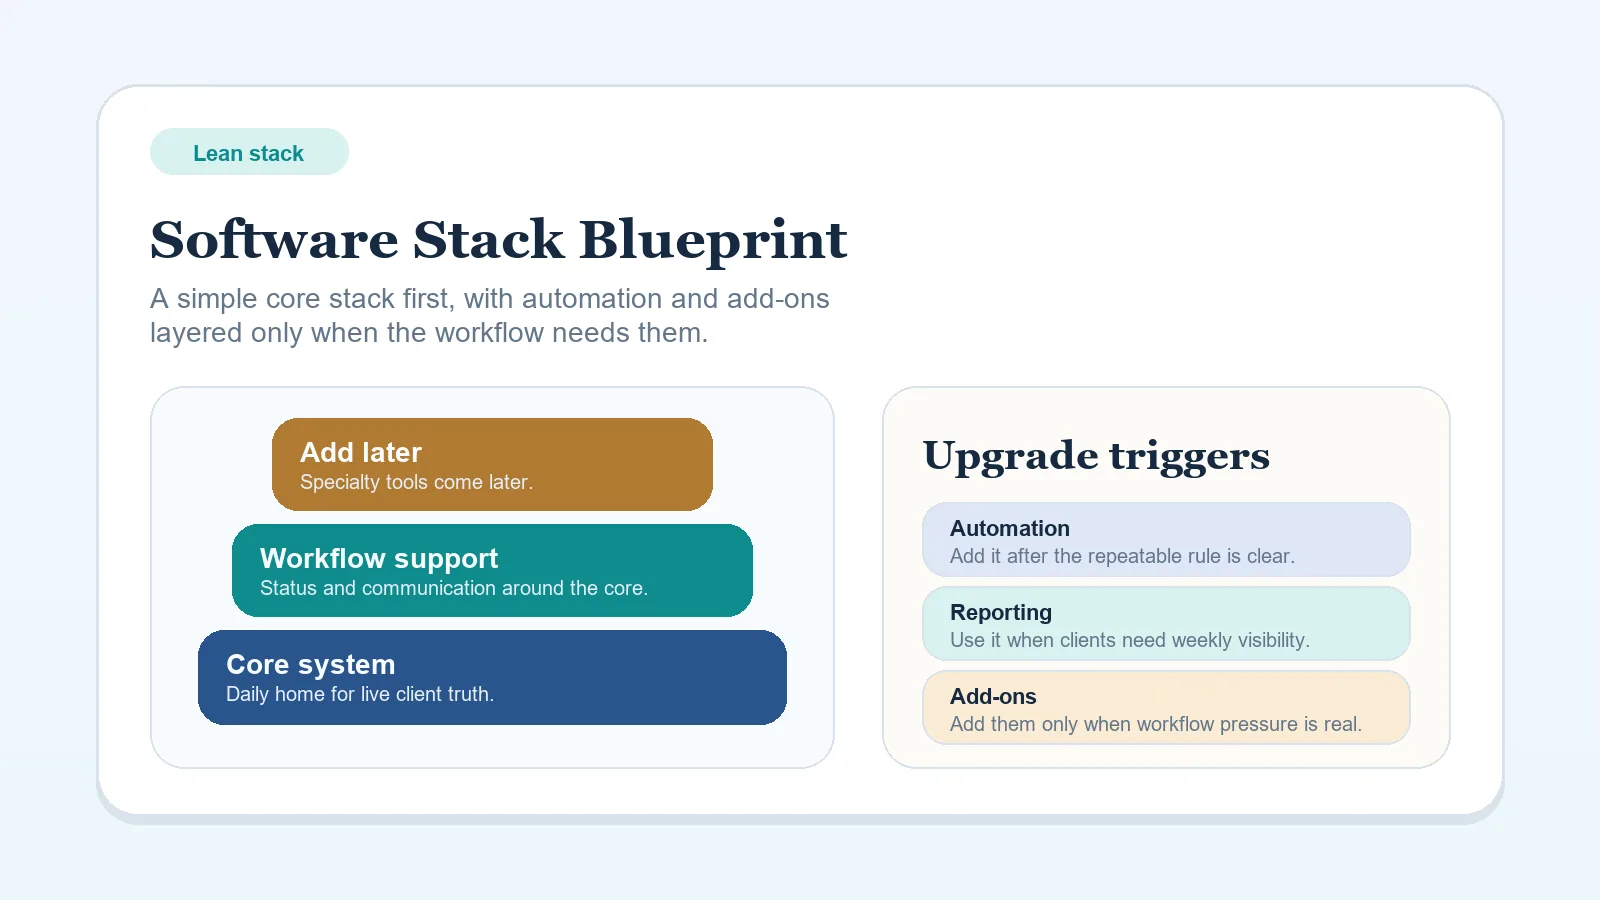
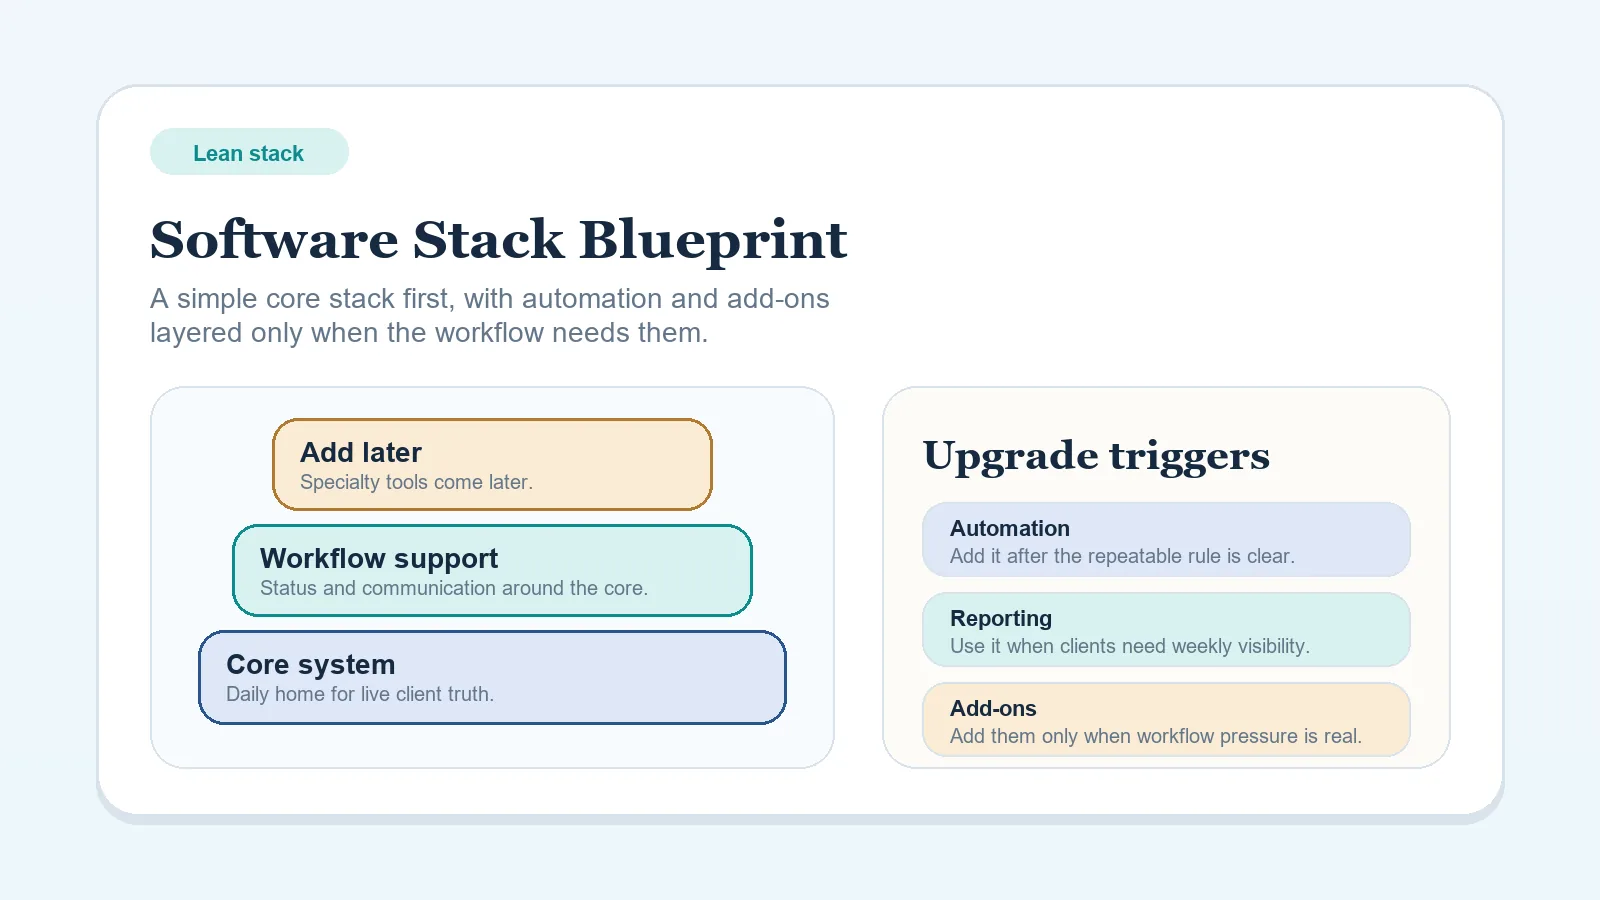
Refine four homepage feature images

Changed region(s): [[0.125, 0.4667, 0.5, 0.8089], [0.5625, 0.6533, 0.875, 0.84]]

diff --git a/tools/feature-images/feature_images/templates/workflow_map.py b/tools/feature-images/feature_images/templates/workflow_map.py
@@ -20,14 +20,14 @@ def render_workflow_map(spec, context):
         max_lines=2,
     )
 
-    panel = (150, 384, 1450, 620)
+    panel = (150, 384, 1450, 640)
     helpers["rounded_box"](draw, panel, fill="#f8fbfd", outline=palette["stroke"], width=3, radius=34)
     items = spec["items"]
-    card_width = 262
-    card_height = 176
-    gap = 34
-    start_x = 171
-    top_y = 430
+    card_width = 274
+    card_height = 210
+    gap = 38
+    start_x = 195
+    top_y = 418
     connector_y = top_y + (card_height // 2)
     last_card_x = start_x + ((len(items) - 1) * (card_width + gap))
     draw.line(
@@ -40,28 +40,17 @@ def render_workflow_map(spec, context):
         box = (x, top_y, x + card_width, top_y + card_height)
         fill = [palette["accent_soft"], palette["secondary_soft"], palette["warm_soft"], palette["good_soft"]][index % 4]
         helpers["rounded_box"](draw, box, fill=fill, outline=palette["stroke"], width=2, radius=28)
-        helpers["pill"](draw, (x + 24, top_y + 24, x + 138, top_y + 64), palette["frame"], item["kicker"], fonts["small"], palette["muted"])
-        draw.text((x + 24, top_y + 82), item["label"], font=fonts["card_title"], fill=palette["ink"])
-        helpers["draw_text_block"](
-            draw,
-            item["detail"],
-            fonts["card_body"],
-            palette["muted"],
-            (x + 24, top_y + 122, card_width - 48, 72),
-            6,
-            report,
-            f"workflow card {item['label']}",
-            max_lines=2,
-        )
+        helpers["pill"](draw, (x + 24, top_y + 24, x + 148, top_y + 68), palette["frame"], item["kicker"], fonts["small"], palette["muted"])
+        draw.text((x + 28, top_y + 88), item["label"], font=fonts["panel_title"], fill=palette["ink"])
         if index < len(items) - 1:
             draw.line((x + card_width, connector_y, x + card_width + gap, connector_y), fill=palette["accent"], width=8)
             draw.ellipse((x + card_width + gap - 11, connector_y - 11, x + card_width + gap + 11, connector_y + 11), fill=palette["accent"])
 
-    note_box = (150, 664, 760, 778)
-    signal_box = (790, 664, 1450, 778)
+    note_box = (150, 660, 760, 782)
+    signal_box = (790, 660, 1450, 782)
     helpers["rounded_box"](draw, note_box, fill="#f3f8fb", outline=palette["stroke"], width=2, radius=28)
     helpers["rounded_box"](draw, signal_box, fill="#f7fbf8", outline=palette["stroke"], width=2, radius=28)
-    draw.text((182, 684), spec["supporting_note"]["title"], font=fonts["card_title"], fill=palette["ink"])
-    helpers["draw_text_block"](draw, spec["supporting_note"]["body"], fonts["card_body"], palette["muted"], (182, 728, 530, 56), 6, report, "workflow supporting note", max_lines=2)
-    draw.text((822, 684), spec["signal_note"]["title"], font=fonts["card_title"], fill=palette["ink"])
-    helpers["draw_text_block"](draw, spec["signal_note"]["body"], fonts["card_body"], palette["muted"], (822, 728, 550, 56), 6, report, "workflow signal note", max_lines=2)
+    draw.text((182, 680), spec["supporting_note"]["title"], font=fonts["card_title"], fill=palette["ink"])
+    helpers["draw_text_block"](draw, spec["supporting_note"]["body"], fonts["card_body"], palette["muted"], (182, 718, 530, 54), 6, report, "workflow supporting note", max_lines=2)
+    draw.text((822, 680), spec["signal_note"]["title"], font=fonts["card_title"], fill=palette["ink"])
+    helpers["draw_text_block"](draw, spec["signal_note"]["body"], fonts["card_body"], palette["muted"], (822, 718, 550, 54), 6, report, "workflow signal note", max_lines=2)

diff --git a/tools/feature-images/feature_images/templates/stack_blueprint.py b/tools/feature-images/feature_images/templates/stack_blueprint.py
@@ -15,20 +15,26 @@ def render_stack_blueprint(spec, context):
     helpers["rounded_box"](draw, main_box, fill="#f7fbff", outline=palette["stroke"], width=2, radius=34)
     helpers["rounded_box"](draw, side_box, fill="#fdfcf8", outline=palette["stroke"], width=2, radius=34)
 
-    stack_boxes = [
-        (198, 630, 786, 724, palette["accent"]),
-        (232, 524, 752, 616, palette["secondary"]),
-        (272, 418, 712, 510, palette["warm"]),
+    stack_fills = [
+        (palette["accent"], palette["accent_soft"]),
+        (palette["secondary"], palette["secondary_soft"]),
+        (palette["warm"], palette["warm_soft"]),
     ]
-    for idx, (x1, y1, x2, y2, fill) in enumerate(stack_boxes):
-        helpers["rounded_box"](draw, (x1, y1, x2, y2), fill=fill, outline=fill, width=2, radius=26)
+    stack_boxes = [
+        (198, 630, 786, 724),
+        (232, 524, 752, 616),
+        (272, 418, 712, 510),
+    ]
+    for idx, (x1, y1, x2, y2) in enumerate(stack_boxes):
+        border_color, bg_color = stack_fills[idx]
+        helpers["rounded_box"](draw, (x1, y1, x2, y2), fill=bg_color, outline=border_color, width=3, radius=26)
         layer = spec["stack_layers"][idx]
-        draw.text((x1 + 28, y1 + 18), layer["title"], font=fonts["card_title"], fill="#f7fbfd")
-        helpers["draw_text_block"](draw, layer["detail"], fonts["small"], "#e6eef7", (x1 + 28, y1 + 52, (x2 - x1) - 56, 48), 4, report, f"stack layer {layer['title']}", max_lines=2)
+        draw.text((x1 + 28, y1 + 18), layer["title"], font=fonts["card_title"], fill=palette["ink"])
+        helpers["draw_text_block"](draw, layer["detail"], fonts["small"], palette["muted"], (x1 + 28, y1 + 52, (x2 - x1) - 56, 48), 4, report, f"stack layer {layer['title']}", max_lines=2)
 
     draw.text((922, 432), spec["side_panel"]["title"], font=fonts["panel_title"], fill=palette["ink"])
     for index, item in enumerate(spec["side_panel"]["items"]):
-        y = 502 + (index * 84)
+        y = 502 + (index * 90)
         fill = [palette["accent_soft"], palette["secondary_soft"], palette["warm_soft"]][index % 3]
         helpers["rounded_box"](draw, (922, y, 1410, y + 74), fill=fill, outline=palette["stroke"], width=2, radius=24)
         draw.text((950, y + 14), item["label"], font=fonts["pill"], fill=palette["ink"])

diff --git a/tools/feature-images/feature_images/templates/hub_overview.py b/tools/feature-images/feature_images/templates/hub_overview.py
@@ -11,10 +11,10 @@ def render_hub_overview(spec, context):
     helpers["draw_text_block"](draw, spec["subtitle"], fonts["subtitle"], palette["muted"], (150, 282, 760, 72), 8, report, "hub subtitle", max_lines=2)
 
     anchor_box = (150, 392, 630, 748)
-    helpers["rounded_box"](draw, anchor_box, fill=palette["secondary"], outline=palette["secondary"], width=2, radius=36)
-    helpers["pill"](draw, (190, 430, 374, 470), "#43679b", "Operating center", fonts["small"], "#eef6ff")
-    helpers["draw_text_block"](draw, spec["anchor"]["title"], fonts["panel_title"], "#eef6ff", (190, 500, 330, 110), 10, report, "hub anchor title", max_lines=2)
-    helpers["draw_text_block"](draw, spec["anchor"]["body"], fonts["card_body"], "#d8e6f7", (190, 626, 360, 82), 8, report, "hub anchor body", max_lines=3)
+    helpers["rounded_box"](draw, anchor_box, fill=palette["secondary_soft"], outline=palette["secondary"], width=2, radius=36)
+    helpers["pill"](draw, (190, 430, 374, 470), palette["secondary"], "Operating center", fonts["small"], "#eef6ff")
+    helpers["draw_text_block"](draw, spec["anchor"]["title"], fonts["panel_title"], palette["ink"], (190, 500, 330, 110), 10, report, "hub anchor title", max_lines=2)
+    helpers["draw_text_block"](draw, spec["anchor"]["body"], fonts["card_body"], palette["muted"], (190, 626, 360, 82), 8, report, "hub anchor body", max_lines=3)
 
     modules = spec["modules"]
     module_boxes = [

diff --git a/tools/feature-images/feature_images/templates/comparison_split.py b/tools/feature-images/feature_images/templates/comparison_split.py
@@ -22,10 +22,10 @@ def render_comparison_split(spec, context):
         helpers["pill"](draw, (box[0] + 30, box[1] + 26, box[0] + 210, box[1] + 66), pill_fill, side["kicker"], fonts["small"], pill_text)
         draw.text((box[0] + 30, box[1] + 94), side["title"], font=fonts["panel_title"], fill=palette["ink"])
         for index, item in enumerate(side["items"]):
-            y = box[1] + 154 + (index * 64)
-            helpers["rounded_box"](draw, (box[0] + 30, y, box[2] - 30, y + 54), fill="#ffffff", outline=palette["stroke"], width=2, radius=22)
-            draw.text((box[0] + 54, y + 16), item["label"], font=fonts["pill"], fill=palette["ink"])
-            helpers["pill"](draw, (box[2] - 182, y + 9, box[2] - 32, y + 45), pill_fill, item["note"], fonts["small"], pill_text)
+            y = box[1] + 170 + (index * 92)
+            helpers["rounded_box"](draw, (box[0] + 30, y, box[2] - 30, y + 70), fill="#ffffff", outline=palette["stroke"], width=2, radius=22)
+            draw.text((box[0] + 54, y + 19), item["label"], font=fonts["card_title"], fill=palette["ink"])
+            helpers["pill"](draw, (box[2] - 182, y + 14, box[2] - 32, y + 56), pill_fill, item["note"], fonts["small"], pill_text)
 
     draw.line((800, 416, 800, 540), fill=palette["stroke"], width=3)
     draw.line((800, 608, 800, 716), fill=palette["stroke"], width=3)

diff --git a/TRACKER.md b/TRACKER.md
@@ -963,3 +963,32 @@ After each future pass, add a short section with:
   - `Regenerate four approved feature images`
 - Push result:
   - `git push origin main` succeeded (commit `f9fffa1`)
+
+## Refine four homepage feature images - 2026-04-17
+
+- Motivation: all 4 approved WebP images still read as dense mini-dashboards at card size — stage labels too small, anchor block too visually dominant, stack bars too heavy, comparison panels too crowded
+- Files changed:
+  - `tools/feature-images/feature_images/templates/workflow_map.py`: removed card detail text, enlarged stage labels to `panel_title` (40px bold), increased card dimensions (274×210, gap 38), recentered cards in panel, moved note boxes to y=660–782
+  - `tools/feature-images/feature_images/templates/hub_overview.py`: changed anchor box fill from solid dark navy (`secondary`) to pale blue (`secondary_soft`) with navy border; updated interior text from white to `ink`/`muted`; keeps connector lines intact
+  - `tools/feature-images/feature_images/templates/stack_blueprint.py`: replaced solid dark bar fills with soft palette fills (accent_soft/secondary_soft/warm_soft) and colored borders (width=3); updated text from white to `ink`/`muted`; increased right-side trigger card spacing from 84 to 90px
+  - `tools/feature-images/feature_images/templates/comparison_split.py`: updated for 2 items per side — larger cards (height 70, spacing 92), labels upgraded from `pill` (22px) to `card_title` (28px bold), items start lower at y+170 for more panel title breathing room
+  - `tools/feature-images/feature_images/data/comparisons/crm-vs-project-management.json`: reduced from 3 items per side to 2 (kept "Client record"/"Pipeline memory" on left; "Active milestones"/"Review flow" on right)
+  - `tools/feature-images/feature_images/data/hubs/client-workflow-systems.json`: shortened anchor body and module detail text to fit cleaner in lighter anchor box
+  - `tools/feature-images/feature_images/data/workflows/freelance-client-workflow-system.json`: shortened signal_note body for cleaner fit in new note box height
+  - `static/images/features/workflows/freelance-client-workflow-system.webp`: regenerated
+  - `static/images/features/hubs/client-workflow-systems.webp`: regenerated
+  - `static/images/features/blueprints/solo-freelancer-lean-budget.webp`: regenerated
+  - `static/images/features/comparisons/crm-vs-project-management.webp`: regenerated
+- Issue-by-issue summary:
+  - Workflow: 4 stage cards now show large 40px stage names only (no small detail text); clean connector flow; note boxes have more vertical breathing room
+  - Hub: left anchor block is now pale blue instead of dark navy, removing the heavy visual imbalance; text is readable dark ink; connector lines unchanged
+  - Blueprint: 3 stack bars now use soft light fills with colored borders instead of solid dark fills; text is dark/readable; trigger cards have slightly more spacing
+  - Comparison: panels now show 2 large-label rows each instead of 3 small ones; 28px bold labels; "vs" divider retained
+- No orphan WebPs were created. Exactly 4 WebPs in `static/images/features/`.
+- SVG fallbacks confirmed present for all 4 images.
+- Verification:
+  - ran `tools/hugo/v0.128.0/hugo.exe --gc --minify --baseURL https://soloopsguide.com/` successfully
+  - confirmed `public/` is gitignored and untracked
+  - all 4 WebPs regenerated cleanly with no validation warnings
+- Commit message used: `Refine four homepage feature images`
+- Push result: TBD
